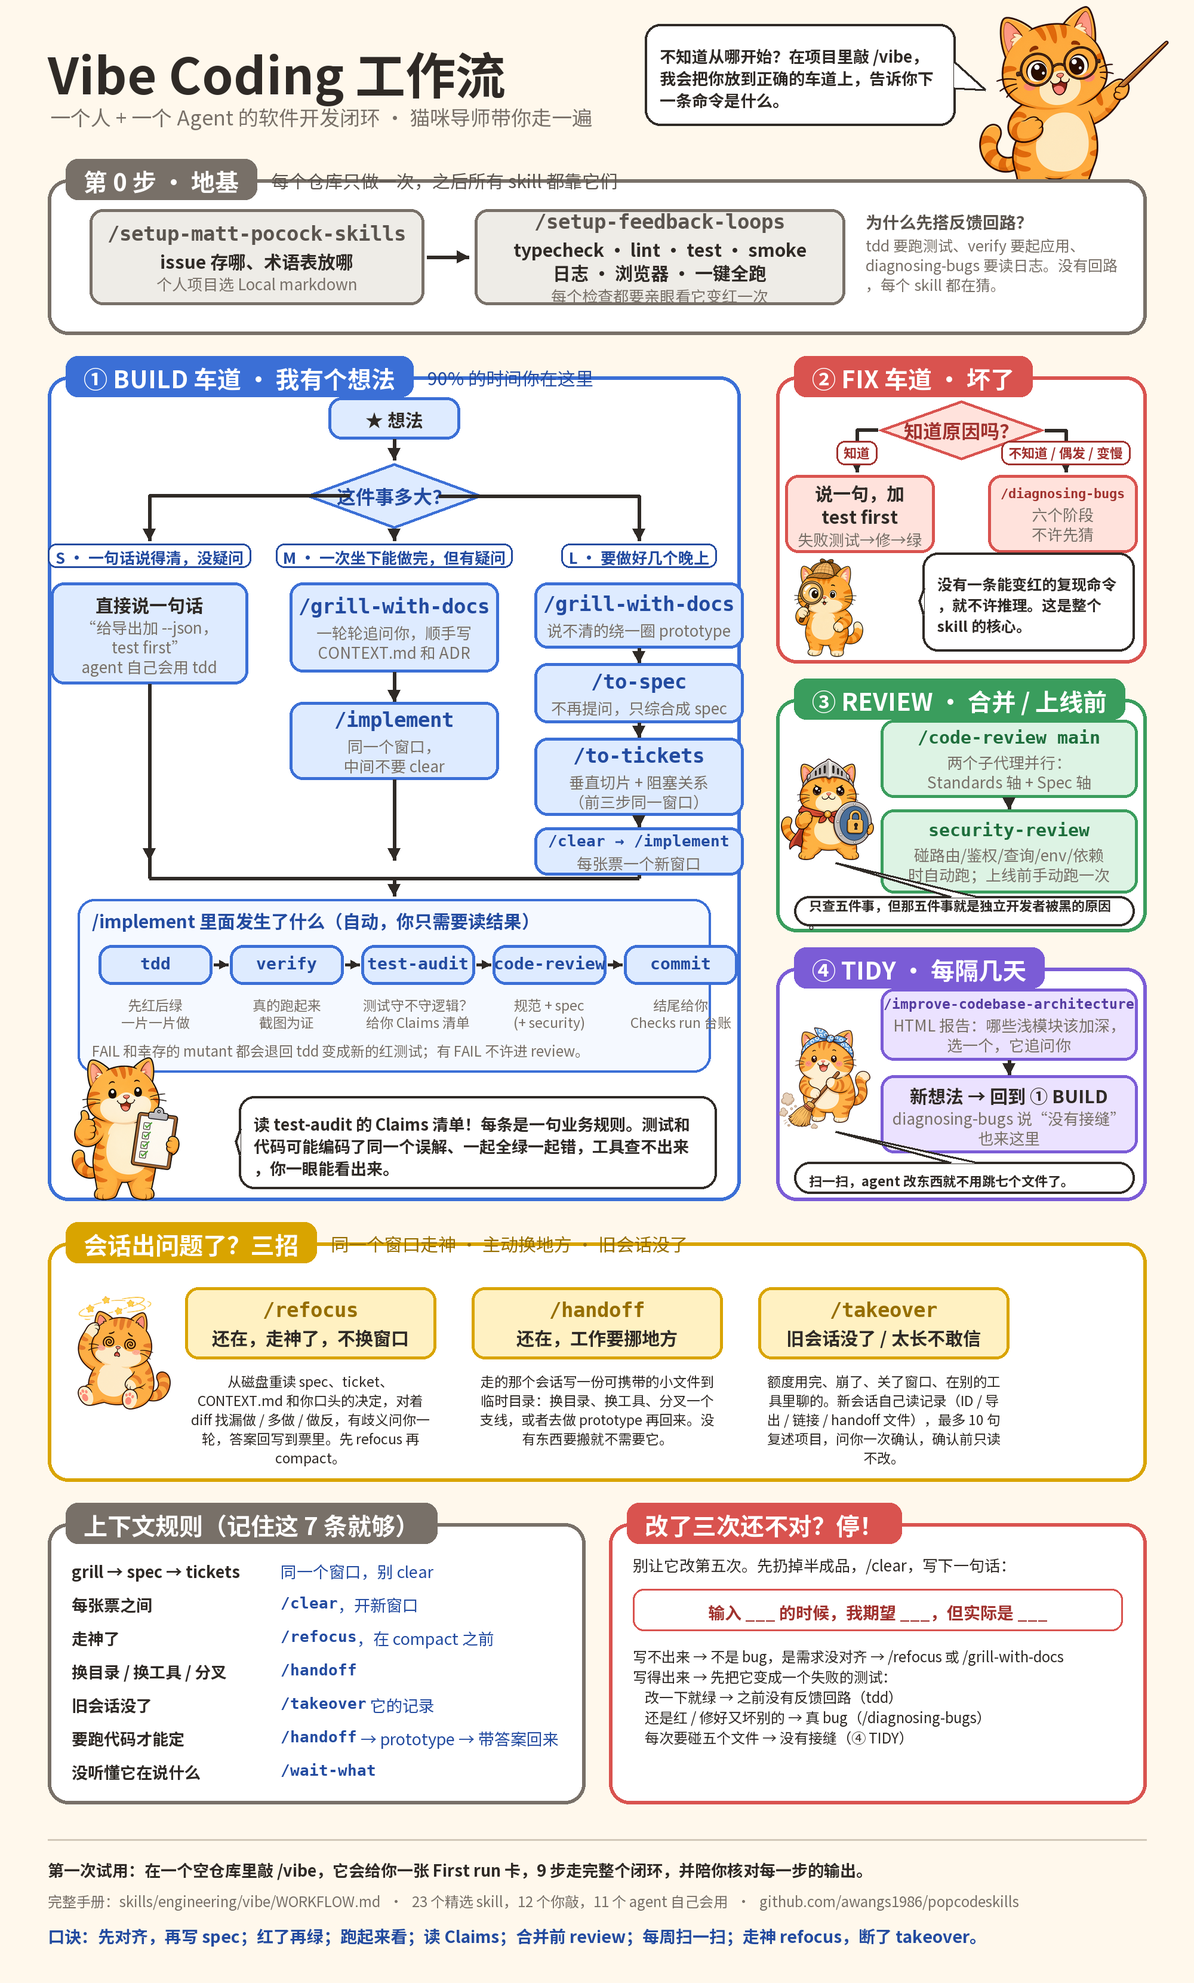
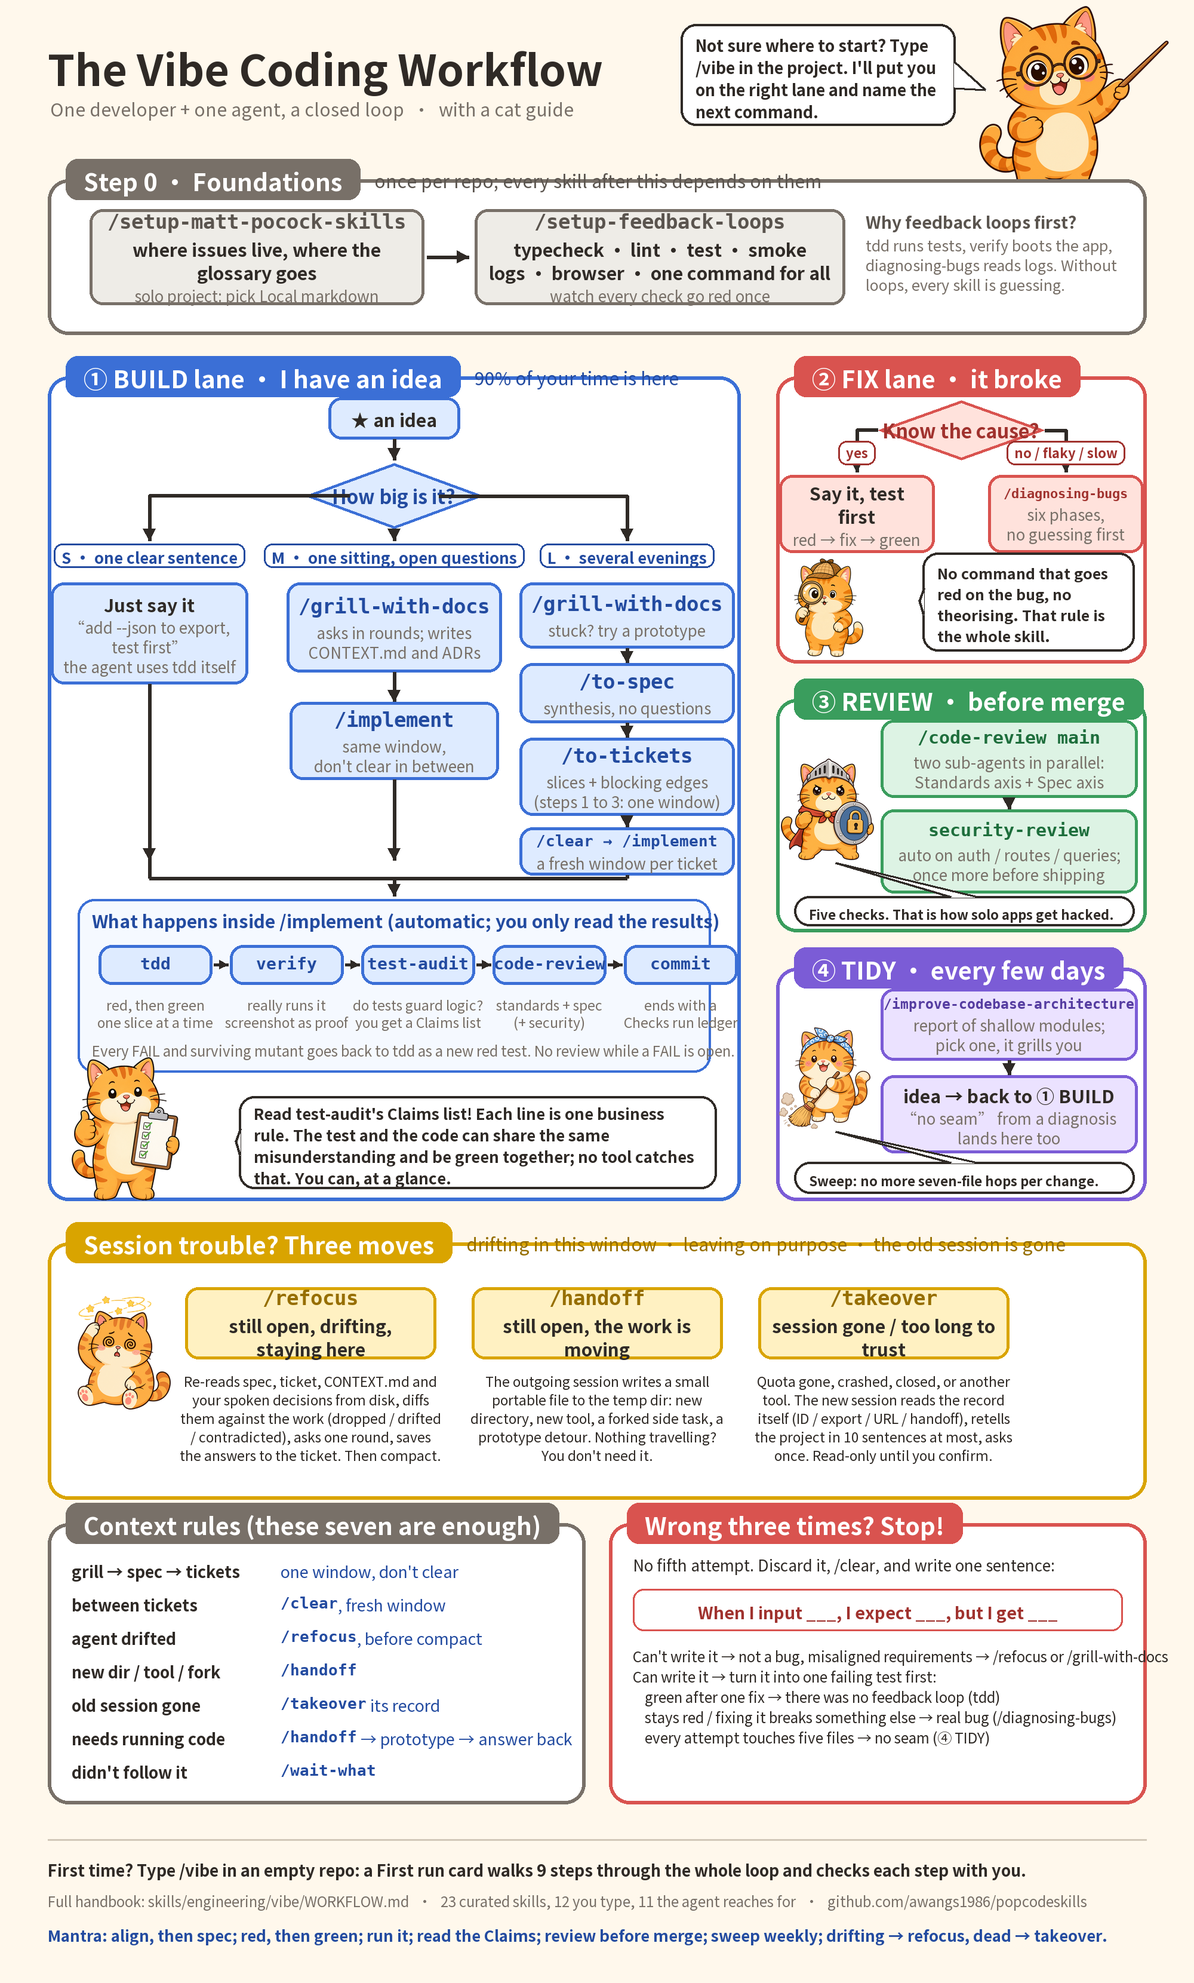
Poster in English: the repo's code and text are English only
Re-render docs/engineering/vibe-workflow-poster.png from an English
build script (same layout, labels tightened where English runs longer).
The repo now contains no non-English text.

diff --git a/docs/engineering/poster/build_poster.py b/docs/engineering/poster/build_poster.py
@@ -175,64 +175,63 @@ cat_dizzy = load_cat((HERE / "cats" / "cat_dizzy.png"), 190)
 cat_shield = load_cat((HERE / "cats" / "cat_shield.png"), 170)
 
 # =================== HEADER ===================
-d.text((80, 60), "Vibe Coding 工作流", font=F(84), fill=INK)
-d.text((84, 170), "一个人 + 一个 Agent 的软件开发闭环 · 猫咪导师带你走一遍", font=F(34, False), fill=GRAY)
+d.text((80, 60), "The Vibe Coding Workflow", font=F(72), fill=INK)
+d.text((84, 160), "One developer + one agent, a closed loop  ·  with a cat guide", font=F(30, False), fill=GRAY)
 paste_cat(cat_teacher, 1640, 10)
-bubble(1080, 40, 1600, 210, "不知道从哪开始？在项目里敲 /vibe，我会把你放到正确的车道上，告诉你下一条命令是什么。", (1650, 150), size=27)
+bubble(1140, 40, 1600, 210, "Not sure where to start? Type /vibe in the project. I'll put you on the right lane and name the next command.", (1650, 150), size=27)
 
 # =================== SETUP BAND ===================
-panel(80, 300, 1920, 560, "setup", "第 0 步 · 地基", "每个仓库只做一次，之后所有 skill 都靠它们")
-node(430, 430, 560, 160, "setup", cmd="/setup-matt-pocock-skills", label="issue 存哪、术语表放哪", note="个人项目选 Local markdown")
+panel(80, 300, 1920, 560, "setup", "Step 0 · Foundations", "once per repo; every skill after this depends on them")
+node(430, 430, 560, 160, "setup", cmd="/setup-matt-pocock-skills", label="where issues live, where the glossary goes", note="solo project: pick Local markdown")
 arrow([(715, 430), (785, 430)])
-node(1105, 430, 620, 160, "setup", cmd="/setup-feedback-loops", label="typecheck · lint · test · smoke\n日志 · 浏览器 · 一键全跑", note="每个检查都要亲眼看它变红一次")
-text(1450, 350, "为什么先搭反馈回路？", F(28), fill=LANES["setup"]["dark"])
-text(1450, 392, "tdd 要跑测试、verify 要起应用、diagnosing-bugs 要读日志。没有回路，每个 skill 都在猜。", F(25, False), fill=GRAY, maxw=440, spacing=1.35)
+node(1105, 430, 620, 160, "setup", cmd="/setup-feedback-loops", label="typecheck · lint · test · smoke\nlogs · browser · one command for all", note="watch every check go red once")
+text(1450, 350, "Why feedback loops first?", F(28), fill=LANES["setup"]["dark"])
+text(1450, 392, "tdd runs tests, verify boots the app, diagnosing-bugs reads logs. Without loops, every skill is guessing.", F(25, False), fill=GRAY, maxw=440, spacing=1.35)
 
 # =================== BUILD LANE (left) ===================
 BX0, BY0, BX1, BY1 = 80, 630, 1240, 2010
-panel(BX0, BY0, BX1, BY1, "build", "① BUILD 车道 · 我有个想法", "90% 的时间你在这里")
+panel(BX0, BY0, BX1, BY1, "build", "① BUILD lane · I have an idea", "90% of your time is here")
 
-node(660, 700, 220, 70, "build", label="★ 想法", cmd=None)
+node(660, 700, 220, 70, "build", label="★ an idea", cmd=None)
 arrow([(660, 735), (660, 770)])
-diamond(660, 830, 300, 110, "build", "这件事多大？")
+diamond(660, 830, 300, 110, "build", "How big is it?")
 
 # three branches
 cols = {"S": 250, "M": 660, "L": 1070}
 arrow([(585, 830), (250, 830), (250, 905)])
-arrow([(735, 830), (1070, 830), (1070, 905)])
+arrow([(735, 830), (1050, 830), (1050, 905)])
 arrow([(660, 885), (660, 905)])
-edge_label(250, 930, "S · 一句话说得清，没疑问", LANES["build"]["dark"])
-edge_label(660, 930, "M · 一次坐下能做完，但有疑问", LANES["build"]["dark"])
-edge_label(1070, 930, "L · 要做好几个晚上", LANES["build"]["dark"])
+edge_label(250, 930, "S · one clear sentence", LANES["build"]["dark"])
+edge_label(660, 930, "M · one sitting, open questions", LANES["build"]["dark"])
+edge_label(1050, 930, "L · several evenings", LANES["build"]["dark"])
 
 # S column
-node(250, 1060, 330, 170, "build", label="直接说一句话", note="“给导出加 --json，\ntest first”\nagent 自己会用 tdd")
+node(250, 1060, 330, 170, "build", label="Just say it", note="\u201cadd --json to export,\ntest first\u201d\nthe agent uses tdd itself")
 arrow([(250, 1145), (250, 1440)])
 # M column
-node(660, 1050, 350, 150, "build", cmd="/grill-with-docs", note="一轮轮追问你，顺手写\nCONTEXT.md 和 ADR")
+node(660, 1050, 360, 150, "build", cmd="/grill-with-docs", note="asks in rounds; writes\nCONTEXT.md and ADRs")
 arrow([(660, 1125), (660, 1175)])
-node(660, 1240, 350, 130, "build", cmd="/implement", note="同一个窗口，\n中间不要 clear")
+node(660, 1240, 350, 130, "build", cmd="/implement", note="same window,\ndon't clear in between")
 arrow([(660, 1305), (660, 1440)])
 # L column
-node(1070, 1030, 350, 110, "build", cmd="/grill-with-docs", note="说不清的绕一圈 prototype")
-arrow([(1070, 1085), (1070, 1110)])
-node(1070, 1160, 350, 100, "build", cmd="/to-spec", note="不再提问，只综合成 spec")
-arrow([(1070, 1210), (1070, 1235)])
-node(1070, 1300, 350, 130, "build", cmd="/to-tickets", note="垂直切片 + 阻塞关系\n（前三步同一窗口）")
-arrow([(1070, 1365), (1070, 1385)])
-node(1070, 1425, 350, 80, "build", cmd="/clear → /implement", cmd_size=26, note="每张票一个新窗口")
-# one unbroken window marker for M and L grill→tickets
+node(1050, 1030, 360, 110, "build", cmd="/grill-with-docs", note="stuck? try a prototype")
+arrow([(1050, 1085), (1050, 1110)])
+node(1050, 1160, 360, 100, "build", cmd="/to-spec", note="synthesis, no questions")
+arrow([(1050, 1210), (1050, 1235)])
+node(1050, 1300, 360, 130, "build", cmd="/to-tickets", note="slices + blocking edges\n(steps 1 to 3: one window)")
+arrow([(1050, 1365), (1050, 1385)])
+node(1050, 1425, 360, 80, "build", cmd="/clear → /implement", cmd_size=26, note="a fresh window per ticket")
 
 # converge into implement internals box
-d.line([(1070, 1465), (1070, 1470)], fill=INK, width=6)
-d.line([(250, 1470), (1070, 1470)], fill=INK, width=6)
+d.line([(1050, 1465), (1050, 1470)], fill=INK, width=6)
+d.line([(250, 1470), (1050, 1470)], fill=INK, width=6)
 d.line([(250, 1440), (250, 1470)], fill=INK, width=6)
 arrow([(660, 1470), (660, 1500)])
 
 IX0, IY0, IX1, IY1 = 130, 1505, 1190, 1795
 rbox(IX0, IY0, IX1, IY1, (245, 249, 255), LANES["build"]["edge"], r=28, width=4)
-d.text((IX0 + 24, IY0 + 14), "/implement 里面发生了什么（自动，你只需要读结果）", font=F(30), fill=LANES["build"]["dark"])
-chain = [("tdd", "先红后绿\n一片一片做"), ("verify", "真的跑起来\n截图为证"), ("test-audit", "测试守不守逻辑？\n给你 Claims 清单"), ("code-review", "规范 + spec\n(+ security)"), ("commit", "结尾给你\nChecks run 台账")]
+d.text((IX0 + 24, IY0 + 14), "What happens inside /implement (automatic; you only read the results)", font=F(30), fill=LANES["build"]["dark"])
+chain = [("tdd", "red, then green\none slice at a time"), ("verify", "really runs it\nscreenshot as proof"), ("test-audit", "do tests guard logic?\nyou get a Claims list"), ("code-review", "standards + spec\n(+ security)"), ("commit", "ends with a\nChecks run ledger")]
 cx = IX0 + 130
 for i, (c, n) in enumerate(chain):
     node(cx, IY0 + 110, 190, 66, "build", cmd=c, cmd_size=28)
@@ -240,63 +239,63 @@ for i, (c, n) in enumerate(chain):
     if i < len(chain) - 1:
         arrow([(cx + 98, IY0 + 110), (cx + 122, IY0 + 110)], width=5, head=16)
     cx += 220
-text(IX0 + 24, IY0 + 236, "FAIL 和幸存的 mutant 都会退回 tdd 变成新的红测试；有 FAIL 不许进 review。", F(24, False), fill=GRAY)
+text(IX0 + 24, IY0 + 236, "Every FAIL and surviving mutant goes back to tdd as a new red test. No review while a FAIL is open.", F(24, False), fill=GRAY)
 
 # clipboard cat + bubble (bottom of build panel)
 paste_cat(cat_clip, 120, 1770)
-bubble(400, 1835, 1200, 1990, "读 test-audit 的 Claims 清单！每条是一句业务规则。测试和代码可能编码了同一个误解、一起全绿一起错，工具查不出来，你一眼能看出来。", (395, 1910), size=27)
+bubble(400, 1835, 1200, 1990, "Read test-audit's Claims list! Each line is one business rule. The test and the code can share the same misunderstanding and be green together; no tool catches that. You can, at a glance.", (395, 1910), size=26)
 
 # =================== RIGHT COLUMN ===================
 RX0, RX1 = 1300, 1920
 
 # FIX
-panel(RX0, 630, RX1, 1110, "fix", "② FIX 车道 · 坏了")
-diamond(1610, 720, 280, 100, "fix", "知道原因吗？")
+panel(RX0, 630, RX1, 1110, "fix", "② FIX lane · it broke")
+diamond(1610, 720, 280, 100, "fix", "Know the cause?")
 arrow([(1470, 720), (1435, 720), (1435, 790)])
-edge_label(1435, 758, "知道", LANES["fix"]["dark"], 22)
-node(1440, 860, 250, 130, "fix", label="说一句，加 test first", note="失败测试→修→绿")
+edge_label(1435, 758, "yes", LANES["fix"]["dark"], 22)
+node(1435, 860, 260, 130, "fix", label="Say it, test first", note="red → fix → green")
 arrow([(1750, 720), (1785, 720), (1785, 790)])
-edge_label(1785, 758, "不知道 / 偶发 / 变慢", LANES["fix"]["dark"], 22)
-node(1780, 860, 250, 130, "fix", cmd="/diagnosing-bugs", cmd_size=22, note="六个阶段\n不许先猜")
+edge_label(1785, 758, "no / flaky / slow", LANES["fix"]["dark"], 22)
+node(1785, 860, 260, 130, "fix", cmd="/diagnosing-bugs", cmd_size=22, note="six phases,\nno guessing first")
 paste_cat(cat_det, 1330, 935)
-bubble(1545, 925, 1900, 1090, "没有一条能变红的复现命令，就不许推理。这是整个 skill 的核心。", (1540, 1005), size=25)
+bubble(1545, 925, 1900, 1090, "No command that goes red on the bug, no theorising. That rule is the whole skill.", (1540, 1005), size=25)
 
 # REVIEW
-panel(RX0, 1170, RX1, 1560, "review", "③ REVIEW · 合并 / 上线前")
-node(1690, 1270, 430, 130, "review", cmd="/code-review main", cmd_size=30, note="两个子代理并行：\nStandards 轴 + Spec 轴")
+panel(RX0, 1170, RX1, 1560, "review", "③ REVIEW · before merge")
+node(1690, 1270, 430, 130, "review", cmd="/code-review main", cmd_size=30, note="two sub-agents in parallel:\nStandards axis + Spec axis")
 arrow([(1690, 1335), (1690, 1355)])
-node(1690, 1425, 430, 140, "review", cmd="security-review", cmd_size=30, note="碰路由/鉴权/查询/env/依赖\n时自动跑；上线前手动跑一次")
+node(1690, 1425, 430, 140, "review", cmd="security-review", cmd_size=30, note="auto on auth / routes / queries;\nonce more before shipping")
 paste_cat(cat_shield, 1308, 1270)
-bubble(1330, 1500, 1900, 1550, "只查五件事，但那五件事就是独立开发者被黑的原因。", (1400, 1445), size=22)
+bubble(1330, 1500, 1900, 1550, "Five checks. That is how solo apps get hacked.", (1400, 1445), size=22)
 
 # TIDY
-panel(RX0, 1620, RX1, 2010, "tidy", "④ TIDY · 每隔几天")
-node(1690, 1715, 430, 120, "tidy", cmd="/improve-codebase-architecture", cmd_size=23, note="HTML 报告：哪些浅模块该加深，\n选一个，它追问你")
+panel(RX0, 1620, RX1, 2010, "tidy", "④ TIDY · every few days")
+node(1690, 1715, 430, 120, "tidy", cmd="/improve-codebase-architecture", cmd_size=23, note="report of shallow modules;\npick one, it grills you")
 arrow([(1690, 1775), (1690, 1800)])
-node(1690, 1865, 430, 130, "tidy", label="新想法 → 回到 ① BUILD", note="diagnosing-bugs 说“没有接缝”\n也来这里")
+node(1690, 1865, 430, 130, "tidy", label="idea → back to ① BUILD", note="\u201cno seam\u201d from a diagnosis\nlands here too")
 paste_cat(cat_broom, 1305, 1720)
-bubble(1330, 1945, 1900, 1998, "扫一扫，agent 改东西就不用跳七个文件了。", (1400, 1895), size=22)
+bubble(1330, 1945, 1900, 1998, "Sweep: no more seven-file hops per change.", (1400, 1895), size=22)
 
 # =================== SESSION BAND: refocus / handoff / takeover ===================
-panel(80, 2080, 1920, 2480, "focus", "会话出问题了？三招", "同一个窗口走神 · 主动换地方 · 旧会话没了")
+panel(80, 2080, 1920, 2510, "focus", "Session trouble? Three moves", "drifting in this window · leaving on purpose · the old session is gone")
 paste_cat(cat_dizzy, 130, 2170)
 SX = [520, 1000, 1480]
-node(SX[0], 2215, 420, 120, "focus", cmd="/refocus", label="还在，走神了，不换窗口")
-node(SX[1], 2215, 420, 120, "focus", cmd="/handoff", label="还在，工作要挪地方")
-node(SX[2], 2215, 420, 120, "focus", cmd="/takeover", label="旧会话没了 / 太长不敢信")
-text(SX[0], 2295, "从磁盘重读 spec、ticket、CONTEXT.md 和你口头的决定，对着 diff 找漏做 / 多做 / 做反，有歧义问你一轮，答案回写到票里。先 refocus 再 compact。", F(23, False), fill=INK, maxw=400, align="center", spacing=1.4)
-text(SX[1], 2295, "走的那个会话写一份可携带的小文件到临时目录：换目录、换工具、分叉一个支线，或者去做 prototype 再回来。没有东西要搬就不需要它。", F(23, False), fill=INK, maxw=400, align="center", spacing=1.4)
-text(SX[2], 2295, "额度用完、崩了、关了窗口、在别的工具里聊的。新会话自己读记录（ID / 导出 / 链接 / handoff 文件），最多 10 句复述项目，问你一次确认，确认前只读不改。", F(23, False), fill=INK, maxw=400, align="center", spacing=1.4)
+node(SX[0], 2215, 420, 120, "focus", cmd="/refocus", label="still open, drifting, staying here")
+node(SX[1], 2215, 420, 120, "focus", cmd="/handoff", label="still open, the work is moving")
+node(SX[2], 2215, 420, 120, "focus", cmd="/takeover", label="session gone / too long to trust")
+text(SX[0], 2295, "Re-reads spec, ticket, CONTEXT.md and your spoken decisions from disk, diffs them against the work (dropped / drifted / contradicted), asks one round, saves the answers to the ticket. Then compact.", F(23, False), fill=INK, maxw=440, align="center", spacing=1.35)
+text(SX[1], 2295, "The outgoing session writes a small portable file to the temp dir: new directory, new tool, a forked side task, a prototype detour. Nothing travelling? You don't need it.", F(23, False), fill=INK, maxw=440, align="center", spacing=1.35)
+text(SX[2], 2295, "Quota gone, crashed, closed, or another tool. The new session reads the record itself (ID / export / URL / handoff), retells the project in 10 sentences at most, asks once. Read-only until you confirm.", F(23, False), fill=INK, maxw=440, align="center", spacing=1.35)
 
 # =================== BOTTOM: context rules + stuck ===================
-panel(80, 2550, 980, 3020, "setup", "上下文规则（记住这 7 条就够）")
-rules = [("grill → spec → tickets", "", "同一个窗口，别 clear"),
-         ("每张票之间", "/clear", "，开新窗口"),
-         ("走神了", "/refocus", "，在 compact 之前"),
-         ("换目录 / 换工具 / 分叉", "/handoff", ""),
-         ("旧会话没了", "/takeover", " 它的记录"),
-         ("要跑代码才能定", "/handoff", " → prototype → 带答案回来"),
-         ("没听懂它在说什么", "/wait-what", "")]
+panel(80, 2550, 980, 3020, "setup", "Context rules (these seven are enough)")
+rules = [("grill → spec → tickets", "", "one window, don't clear"),
+         ("between tickets", "/clear", ", fresh window"),
+         ("agent drifted", "/refocus", ", before compact"),
+         ("new dir / tool / fork", "/handoff", ""),
+         ("old session gone", "/takeover", " its record"),
+         ("needs running code", "/handoff", " → prototype → answer back"),
+         ("didn't follow it", "/wait-what", "")]
 y = 2610
 for a, cmd, rest in rules:
     d.text((120, y), a, font=F(27), fill=INK)
@@ -307,17 +306,17 @@ for a, cmd, rest in rules:
         d.text((x, y), rest, font=F(27, False), fill=LANES["build"]["dark"])
     y += 56
 
-panel(1020, 2550, 1920, 3020, "fix", "改了三次还不对？停！")
-text(1060, 2600, "别让它改第五次。先扔掉半成品，/clear，写下一句话：", F(26, False), fill=INK, maxw=820)
+panel(1020, 2550, 1920, 3020, "fix", "Wrong three times? Stop!")
+text(1060, 2600, "No fifth attempt. Discard it, /clear, and write one sentence:", F(26, False), fill=INK, maxw=820)
 rbox(1060, 2660, 1880, 2730, (255, 255, 255), LANES["fix"]["edge"], r=18, width=3)
-text(1470, 2678, "输入 ___ 的时候，我期望 ___，但实际是 ___", F(28), fill=LANES["fix"]["dark"], align="center")
-text(1060, 2755, "写不出来 → 不是 bug，是需求没对齐 → /refocus 或 /grill-with-docs\n写得出来 → 先把它变成一个失败的测试：\n    改一下就绿 → 之前没有反馈回路（tdd）\n    还是红 / 修好又坏别的 → 真 bug（/diagnosing-bugs）\n    每次要碰五个文件 → 没有接缝（④ TIDY）", F(24, False), fill=INK, spacing=1.45)
+text(1470, 2678, "When I input ___, I expect ___, but I get ___", F(28), fill=LANES["fix"]["dark"], align="center")
+text(1060, 2755, "Can't write it → not a bug, misaligned requirements → /refocus or /grill-with-docs\nCan write it → turn it into one failing test first:\n    green after one fix → there was no feedback loop (tdd)\n    stays red / fixing it breaks something else → real bug (/diagnosing-bugs)\n    every attempt touches five files → no seam (④ TIDY)", F(24, False), fill=INK, spacing=1.45)
 
 # =================== FOOTER ===================
 d.line([(80, 3080), (1920, 3080)], fill=(210, 200, 185), width=3)
-text(80, 3110, "第一次试用：在一个空仓库里敲 /vibe，它会给你一张 First run 卡，9 步走完整个闭环，并陪你核对每一步的输出。", F(27), fill=INK, maxw=1840)
-text(80, 3165, "完整手册：skills/engineering/vibe/WORKFLOW.md   ·   23 个精选 skill，12 个你敲，11 个 agent 自己会用   ·   github.com/awangs1986/popcodeskills", F(24, False), fill=GRAY, maxw=1840)
-text(80, 3220, "口诀：先对齐，再写 spec；红了再绿；跑起来看；读 Claims；合并前 review；每周扫一扫；走神 refocus，断了 takeover。", F(28), fill=LANES["build"]["dark"], maxw=1840)
+text(80, 3110, "First time? Type /vibe in an empty repo: a First run card walks 9 steps through the whole loop and checks each step with you.", F(27), fill=INK, maxw=1840)
+text(80, 3165, "Full handbook: skills/engineering/vibe/WORKFLOW.md   ·   23 curated skills, 12 you type, 11 the agent reaches for   ·   github.com/awangs1986/popcodeskills", F(24, False), fill=GRAY, maxw=1840)
+text(80, 3220, "Mantra: align, then spec; red, then green; run it; read the Claims; review before merge; sweep weekly; drifting → refocus, dead → takeover.", F(26), fill=LANES["build"]["dark"], maxw=1840)
 
 img.save(str(HERE.parent / "vibe-workflow-poster.png"), optimize=True)
 print("saved")

diff --git a/docs/engineering/poster/README.md b/docs/engineering/poster/README.md
@@ -1,6 +1,6 @@
 # Vibe workflow poster
 
-`../vibe-workflow-poster.png` is a one-page, Chinese-language picture of [the vibe handbook](../../../skills/engineering/vibe/WORKFLOW.md): setup, the four lanes, the `implement` chain, the three session-seam moves (`refocus`, `handoff`, `takeover`), the context rules and the "three times wrong" stop rule.
+`../vibe-workflow-poster.png` is a one-page picture of [the vibe handbook](../../../skills/engineering/vibe/WORKFLOW.md): setup, the four lanes, the `implement` chain, the three session-seam moves (`refocus`, `handoff`, `takeover`), the context rules and the "three times wrong" stop rule.
 
 The layout is drawn by `build_poster.py` with Pillow, so the text is exact; only the six cat mascots in `cats/` are AI-generated. To re-render after editing the handbook:
 
